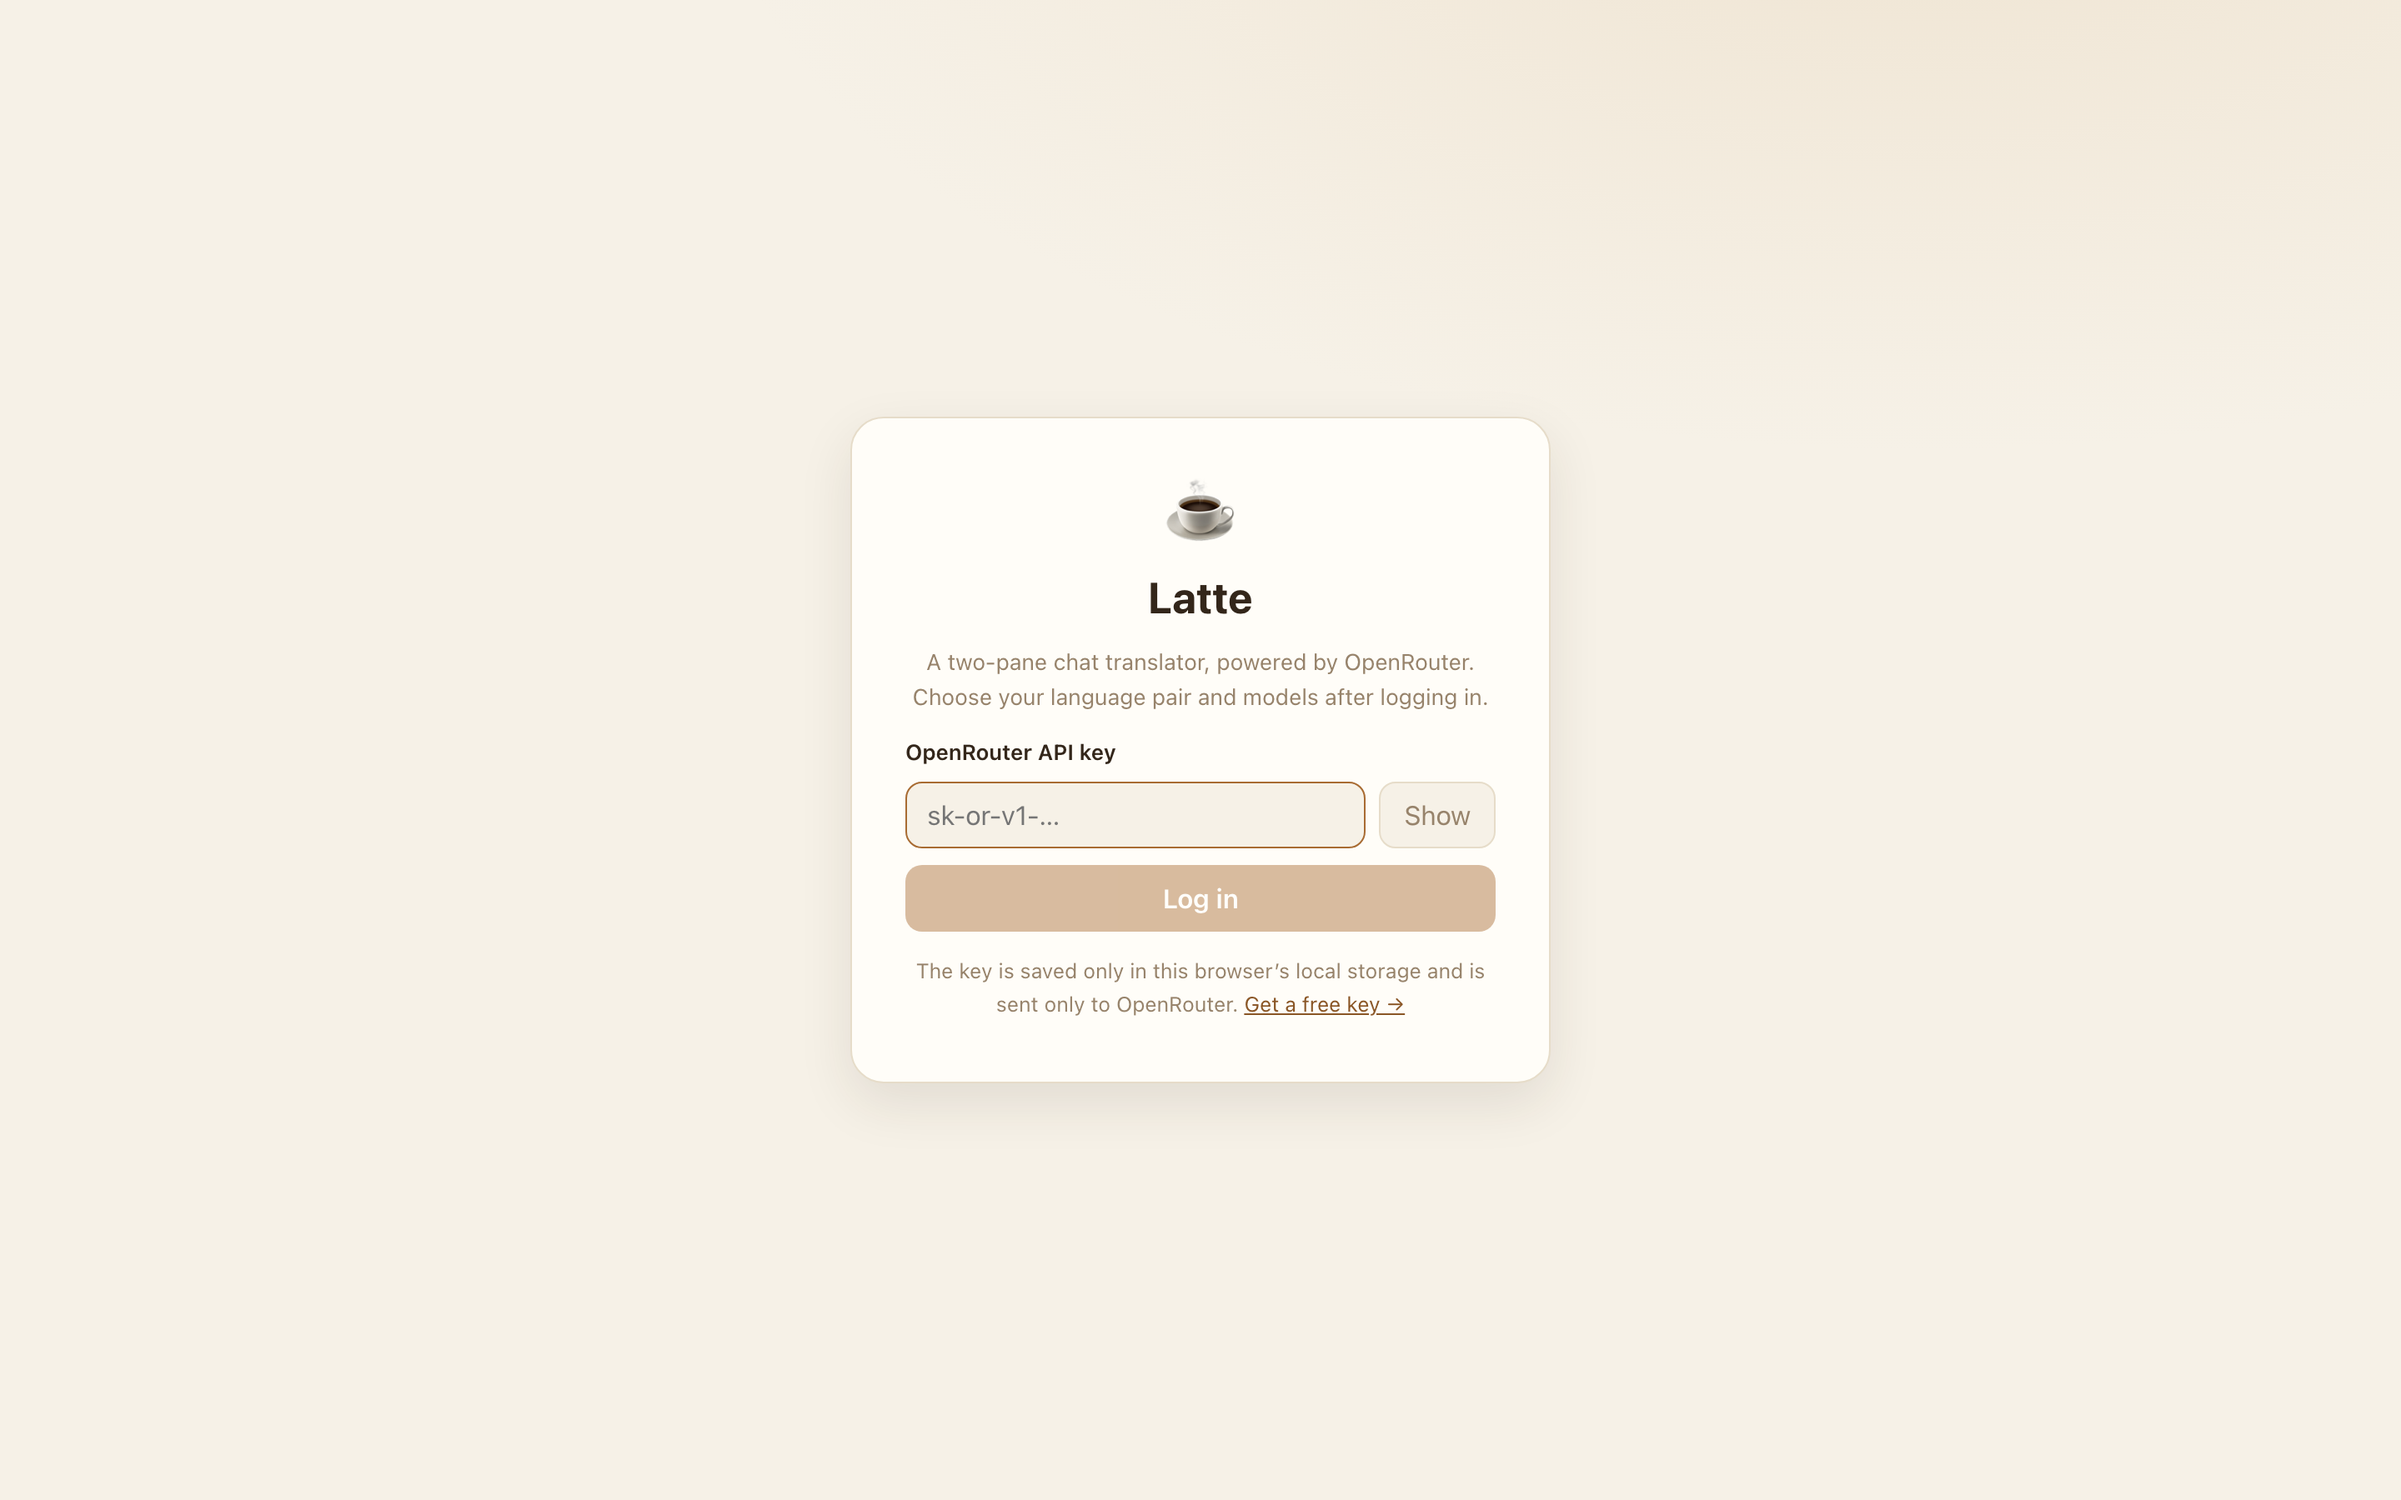
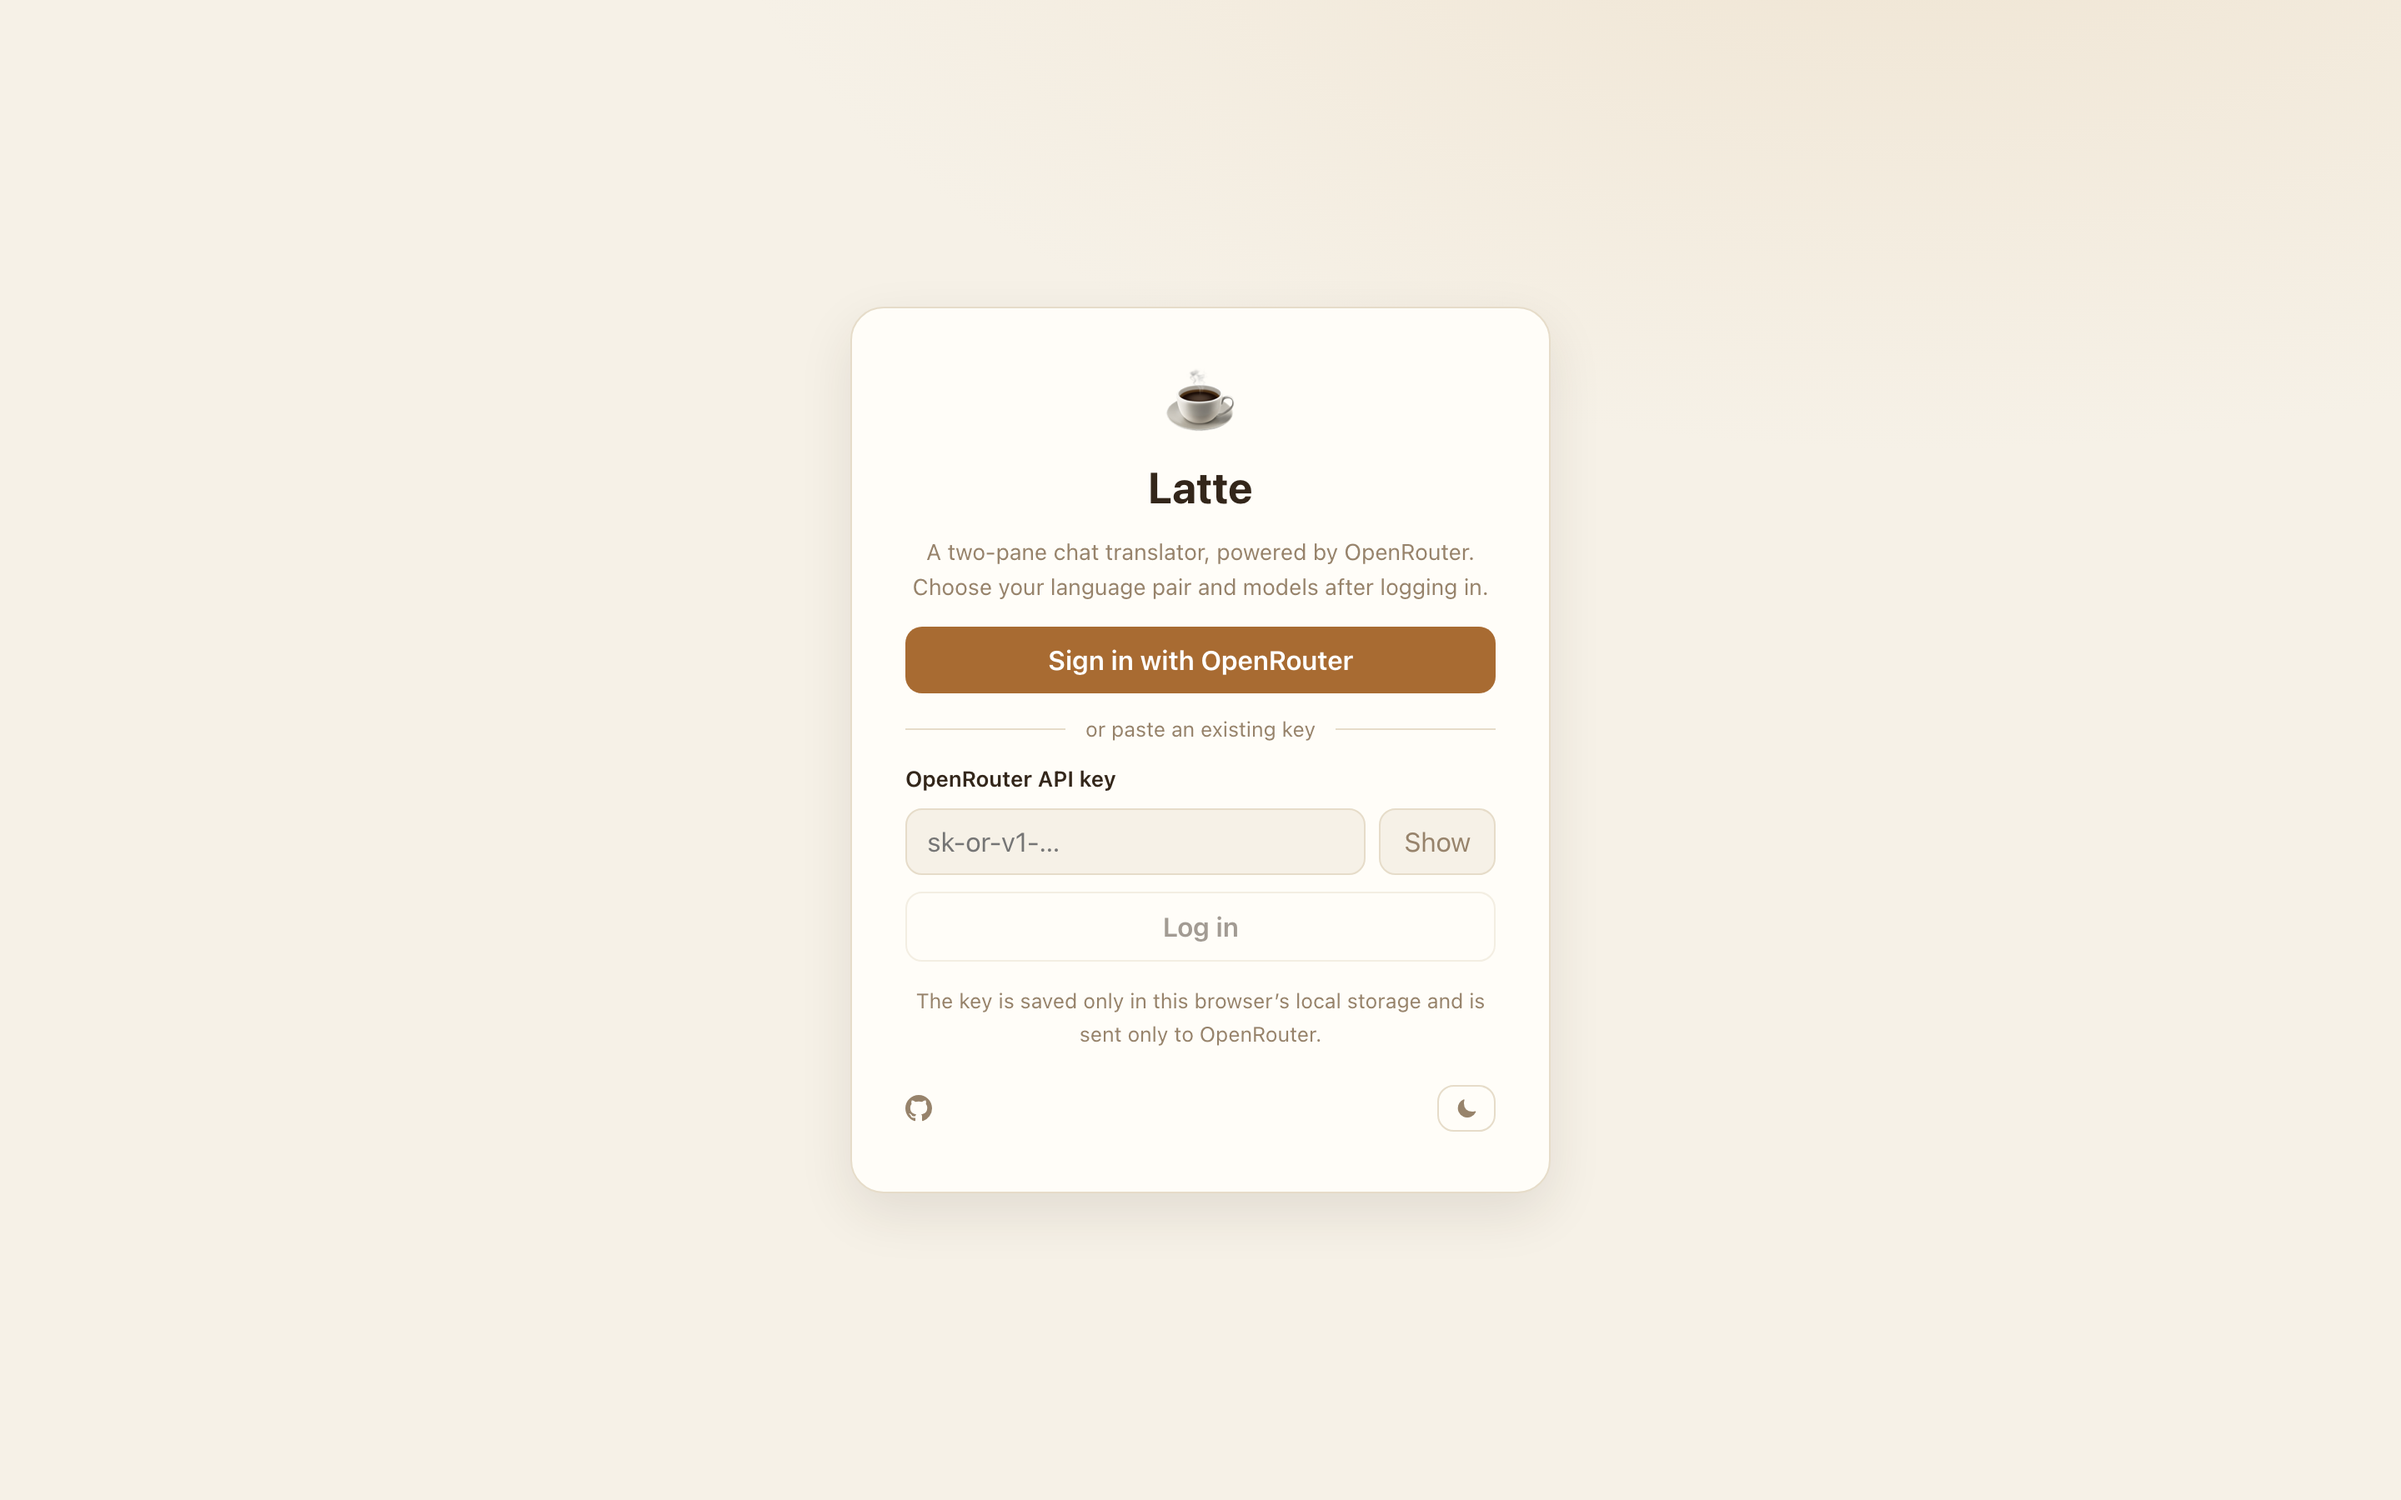
feat: tonality can be toggled (#10)
* feat: tonality can be toggled

* feat: readme

Changed region(s): [[0.3438, 0.3111, 0.6562, 0.7467], [0.4688, 0.2489, 0.5312, 0.28]]

diff --git a/src/components/ChatScreen.tsx b/src/components/ChatScreen.tsx
@@ -1,10 +1,12 @@
 import { useRef, useState } from "react";
 import { languageName } from "../constants";
 import { fetchCorrectionOptions, fetchHasGrammarErrors, fetchTranslationOptions } from "../lib/openrouter";
+import { uuid } from "../lib/uuid";
 import type { ChatLog, ChatStore, Message, Pending, Settings, Side, Theme } from "../types";
 import ChatPane from "./ChatPane";
 import GitHubLink from "./GitHubLink";
 import ThemeToggle from "./ThemeToggle";
+import ToggleSwitch from "./ToggleSwitch";
 import styles from "./ChatScreen.module.css";
 
 interface ChatScreenProps {
@@ -65,7 +67,7 @@ export default function ChatScreen({
     if (settings.grammarCheck[side]) {
       await grammarCheck(side, text);
     } else {
-      await postForTranslation(side, crypto.randomUUID(), text);
+      await postForTranslation(side, uuid(), text);
     }
   }
 
@@ -76,13 +78,20 @@ export default function ChatScreen({
     });
   }
 
+  function handleToggleFormality(formal: boolean) {
+    onSettingsChange({
+      ...settings,
+      formality: formal ? "formal" : "informal",
+    });
+  }
+
   async function grammarCheck(side: Side, text: string) {
     const language = languageName(side === "left" ? settings.source : settings.target);
 
     controllers.current[side]?.abort();
     const controller = new AbortController();
     controllers.current[side] = controller;
-    const requestId = crypto.randomUUID();
+    const requestId = uuid();
 
     setPendingFor(side, { requestId, kind: "grammar", status: "checking", sourceText: text, options: [], error: "" });
 
@@ -142,7 +151,7 @@ export default function ChatScreen({
     controllers.current[inputSide]?.abort();
     const controller = new AbortController();
     controllers.current[inputSide] = controller;
-    const requestId = crypto.randomUUID();
+    const requestId = uuid();
 
     setPendingFor(targetSide, {
       requestId,
@@ -225,7 +234,7 @@ export default function ChatScreen({
   }
 
   function appendMessage(side: Side, text: string) {
-    onAppendMessage(chatKey, { id: crypto.randomUUID(), side, text, createdAt: Date.now() });
+    onAppendMessage(chatKey, { id: uuid(), side, text, createdAt: Date.now() });
   }
 
   function stopped(controller: AbortController, side: Side, requestId: string): boolean {
@@ -264,9 +273,13 @@ export default function ChatScreen({
           <span className={styles.pair}>
             {languageName(settings.source)} ⇄ {languageName(settings.target)}
           </span>
-          <span className={styles.chip}>{settings.formality}</span>
         </div>
         <div className={styles.actions}>
+          <ToggleSwitch
+            label="Formal"
+            checked={settings.formality === "formal"}
+            onChange={handleToggleFormality}
+          />
           <ThemeToggle theme={theme} onToggle={onToggleTheme} />
           <span className={styles.costChip} title="Total OpenRouter spend on this device">
             Σ {formatCost(totalCost)}

diff --git a/src/components/ChatPane.tsx b/src/components/ChatPane.tsx
@@ -1,5 +1,6 @@
 import { useEffect, useRef, useState, type FormEvent } from "react";
 import type { Message, Pending, Side } from "../types";
+import ToggleSwitch from "./ToggleSwitch";
 import styles from "./ChatPane.module.css";
 
 interface ChatPaneProps {
@@ -78,16 +79,7 @@ export default function ChatPane({
       <header className={styles.header}>
         <h2>{language}</h2>
         <div className={styles.headerActions}>
-          <label
-            className={grammarCheck ? `${styles.grammarToggle} ${styles.grammarToggleOn}` : styles.grammarToggle}
-          >
-            <input
-              type="checkbox"
-              checked={grammarCheck}
-              onChange={(event) => onToggleGrammarCheck(event.target.checked)}
-            />
-            Grammar check
-          </label>
+          <ToggleSwitch label="Grammar" checked={grammarCheck} onChange={onToggleGrammarCheck} />
           <button
             type="button"
             className={styles.clearButton}
@@ -102,7 +94,7 @@ export default function ChatPane({
 
       <div className={styles.messages} ref={listRef}>
         {messages.length === 0 && !pending && (
-          <p className={styles.hint}>Type below to get three {language} options to choose from.</p>
+          <p className={styles.hint}>Use the other pane to get an instant {language} translation.</p>
         )}
 
         {messages.map((message) => (

diff --git a/src/components/ToggleSwitch.module.css b/src/components/ToggleSwitch.module.css
@@ -1,0 +1,68 @@
+.switch {
+  display: inline-flex;
+  align-items: center;
+  gap: 6px;
+  cursor: pointer;
+  user-select: none;
+}
+
+.switch input {
+  position: absolute;
+  width: 1px;
+  height: 1px;
+  opacity: 0;
+  margin: 0;
+}
+
+.track {
+  position: relative;
+  width: 30px;
+  height: 17px;
+  border-radius: 999px;
+  background: var(--danger);
+  transition: background 0.15s ease;
+  flex-shrink: 0;
+}
+
+.knob {
+  position: absolute;
+  top: 2px;
+  left: 2px;
+  width: 13px;
+  height: 13px;
+  border-radius: 50%;
+  background: #fff;
+  transition: transform 0.15s ease;
+}
+
+.on .track {
+  background: #34a853;
+}
+
+.on .knob {
+  transform: translateX(13px);
+}
+
+.switch input:focus-visible + .track {
+  outline: 2px solid var(--accent-strong);
+  outline-offset: 1px;
+}
+
+.label {
+  font-size: 11.5px;
+  font-weight: 600;
+  color: var(--muted);
+  white-space: nowrap;
+}
+
+.on .label {
+  color: #2c7a3f;
+}
+
+:root[data-theme="dark"] .label {
+  color: var(--muted);
+}
+
+:root[data-theme="dark"] .on .label {
+  color: #6fcf8f;
+}

diff --git a/src/lib/uuid.ts b/src/lib/uuid.ts
@@ -1,0 +1,13 @@
+export function uuid(): string {
+  if (typeof crypto !== "undefined" && typeof crypto.randomUUID === "function") {
+    return crypto.randomUUID();
+  }
+  if (typeof crypto !== "undefined" && typeof crypto.getRandomValues === "function") {
+    const bytes = crypto.getRandomValues(new Uint8Array(16));
+    bytes[6] = (bytes[6] & 0x0f) | 0x40;
+    bytes[8] = (bytes[8] & 0x3f) | 0x80;
+    const hex = Array.from(bytes, (byte) => byte.toString(16).padStart(2, "0")).join("");
+    return `${hex.slice(0, 8)}-${hex.slice(8, 12)}-${hex.slice(12, 16)}-${hex.slice(16, 32)}`;
+  }
+  return `id-${Date.now()}-${Math.random().toString(36).slice(2, 10)}`;
+}

diff --git a/src/components/ToggleSwitch.tsx b/src/components/ToggleSwitch.tsx
@@ -1,0 +1,23 @@
+import styles from "./ToggleSwitch.module.css";
+
+interface ToggleSwitchProps {
+  label: string;
+  checked: boolean;
+  onChange(checked: boolean): void;
+}
+
+export default function ToggleSwitch({ label, checked, onChange }: ToggleSwitchProps) {
+  return (
+    <label className={checked ? `${styles.switch} ${styles.on}` : styles.switch}>
+      <input
+        type="checkbox"
+        checked={checked}
+        onChange={(event) => onChange(event.target.checked)}
+      />
+      <span className={styles.track}>
+        <span className={styles.knob} />
+      </span>
+      <span className={styles.label}>{label}</span>
+    </label>
+  );
+}

diff --git a/src/components/ChatPane.module.css b/src/components/ChatPane.module.css
@@ -52,32 +52,6 @@
   color: var(--muted);
 }
 
-.grammarToggle {
-  display: inline-flex;
-  align-items: center;
-  gap: 6px;
-  font-size: 11.5px;
-  font-weight: 600;
-  color: var(--muted);
-  border: 1px solid var(--border);
-  border-radius: 999px;
-  padding: 4px 10px;
-  cursor: pointer;
-  user-select: none;
-  white-space: nowrap;
-}
-
-.grammarToggle input {
-  accent-color: var(--accent);
-  margin: 0;
-}
-
-.grammarToggleOn {
-  background: var(--accent-soft);
-  border-color: var(--accent);
-  color: var(--accent-strong);
-}
-
 .messages {
   flex: 1;
   min-height: 0;

diff --git a/README.md b/README.md
@@ -2,10 +2,18 @@
 
 A two-pane chat translator for language pairs, powered by OpenRouter. Type in either pane, pick from three natural translations, and let the optional grammar check catch mistakes before anything is sent. Fully frontend: no backend, no accounts, nothing stored outside your browser.
 
+## Desktop
+
 | | |
 | --- | --- |
 | ![Login](docs/screenshots/login.png) | ![Setup](docs/screenshots/setup.png) |
-| ![Two-pane chat](docs/screenshots/chat-web.png) | ![Chat on mobile](docs/screenshots/chat-mobile.png) |
+| ![Two-pane chat](docs/screenshots/chat-desktop.png) | |
+
+## Mobile
+
+| |
+| --- |
+| ![Grammar suggestions on mobile](docs/screenshots/chat-mobile.png) |
 
 ## Features
 
@@ -38,7 +46,7 @@ npm install
 npm run dev
 ```
 
-Regenerate the screenshots above with Playwright: run `npm run screenshots` while a preview server is up on port 4173.
+Regenerate the screenshots above with Playwright: run `npm run screenshots` while a preview server is up on port 4173. The script drives the real app from scratch — login, setup, and live conversations — using the OpenRouter key from `.env` (`KEY=…`) or `OPENROUTER_API_KEY`, so it makes real API calls and incurs a tiny amount of spend.
 
 Deploy: push to `main` and the included workflow builds and publishes the site. Enable it under Settings, Pages, Build and deployment, Source: GitHub Actions. Your API key never leaves the browser, so no repository secrets are needed.
 
